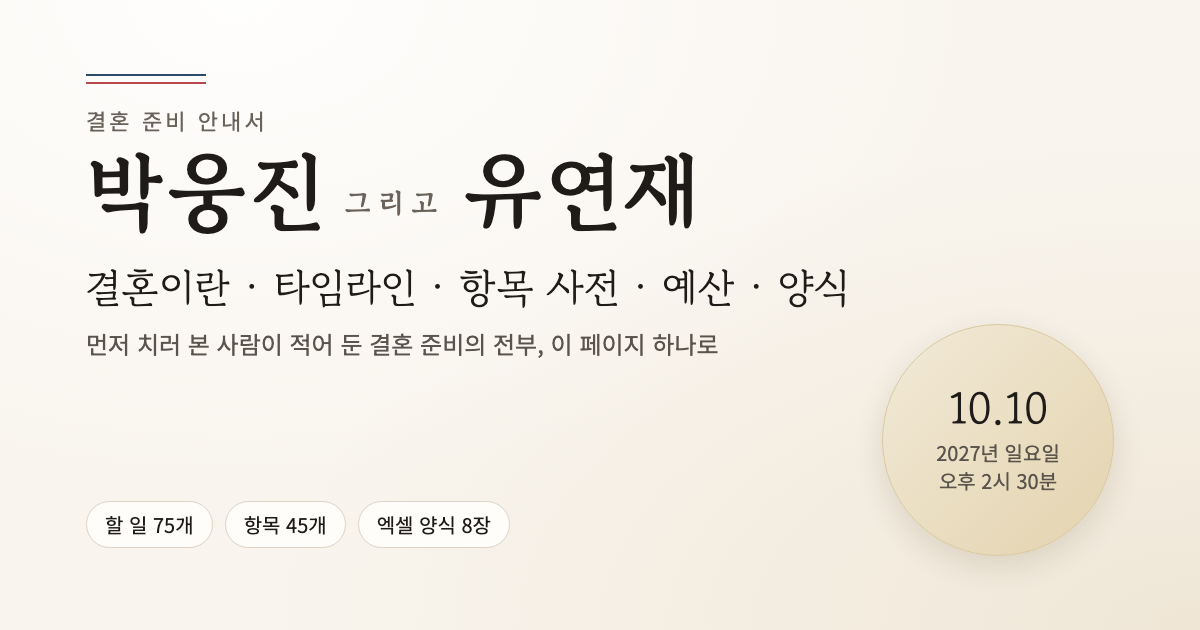
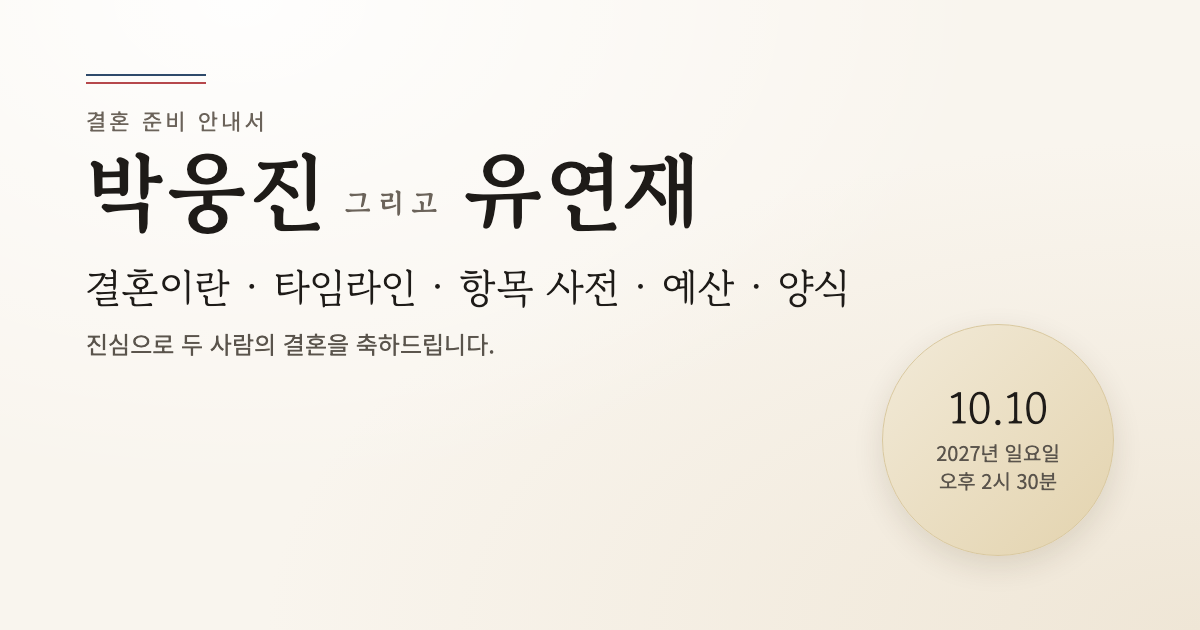
미리보기: 제목 교체·설명 삭제, OG 이미지 문구 변경·칩 제거

Changed region(s): [[0.0925, 0.5127, 0.6167, 0.573], [0.0925, 0.8143, 0.2775, 0.8746], [0.3083, 0.8143, 0.4317, 0.8746]]

diff --git a/index.html b/index.html
@@ -6,15 +6,14 @@
 <meta name="theme-color" content="#F9F5EE">
 <link rel="canonical" href="https://salescompany0920-afk.github.io/wedding-guide-7f3a9c2e/">
 <meta property="og:type" content="website">
-<meta property="og:title" content="웅진과 연재의 결혼 준비 안내서">
-<meta property="og:description" content="결혼이란 · 타임라인 · 항목 사전 · 예산 · 양식, 이 페이지 하나로. 2027년 10월 10일까지.">
+<meta property="og:title" content="웅진 ❤ 연재 둘만의 결혼 가이드">
 <meta property="og:image" content="https://salescompany0920-afk.github.io/wedding-guide-7f3a9c2e/og.png">
 <meta property="og:image:width" content="1200">
 <meta property="og:image:height" content="630">
 <meta property="og:url" content="https://salescompany0920-afk.github.io/wedding-guide-7f3a9c2e/">
 <meta property="og:locale" content="ko_KR">
 <meta name="twitter:card" content="summary_large_image">
-<meta name="twitter:title" content="웅진과 연재의 결혼 준비 안내서">
+<meta name="twitter:title" content="웅진 ❤ 연재 둘만의 결혼 가이드">
 <meta name="twitter:image" content="https://salescompany0920-afk.github.io/wedding-guide-7f3a9c2e/og.png">
 <link rel="icon" type="image/png" sizes="32x32" href="favicon-32.png">
 <link rel="apple-touch-icon" href="apple-touch-icon.png">
@@ -23,7 +22,6 @@
 
 <title>웅진과 연재의 결혼 준비 안내서</title>
 <meta name="claude:viewport-fit-sides" content="cover">
-<meta name="description" content="박웅진·유연재 두 사람을 위한 결혼 준비 안내서. 왜 하는지(세계사 이야기), 평균과 실제 지출, 안 함·보통·아낌없이 중 내 선택, 2027년 10월 10일까지의 디데이 타임라인과 예산·메모장.">
 <link rel="preconnect" href="https://fonts.googleapis.com"><link rel="preconnect" href="https://fonts.gstatic.com" crossorigin><link rel="stylesheet" href="https://fonts.googleapis.com/css2?family=Gowun+Batang:wght@400;700&family=Noto+Sans+KR:wght@400;500;600;700&display=swap">
 <style>
 /* 레이아웃 개념: 청첩장(중앙 정렬 표지, 두 사람 이름과 디데이 시계) → 큐시트(좌측 정렬 실무 문서). 기억점은 청실홍실 타임라인 레일. */
